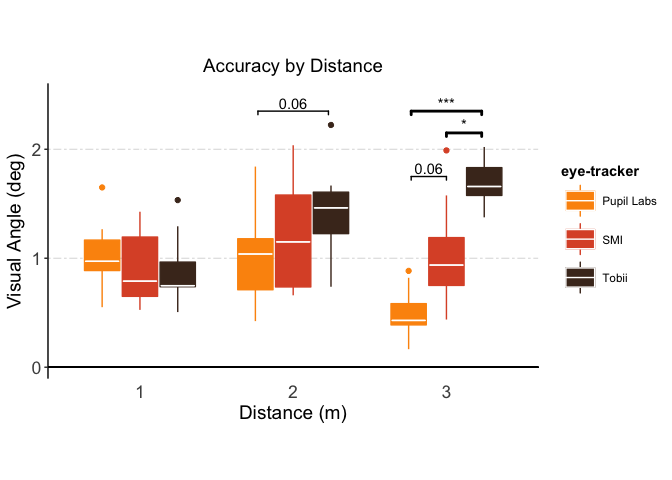
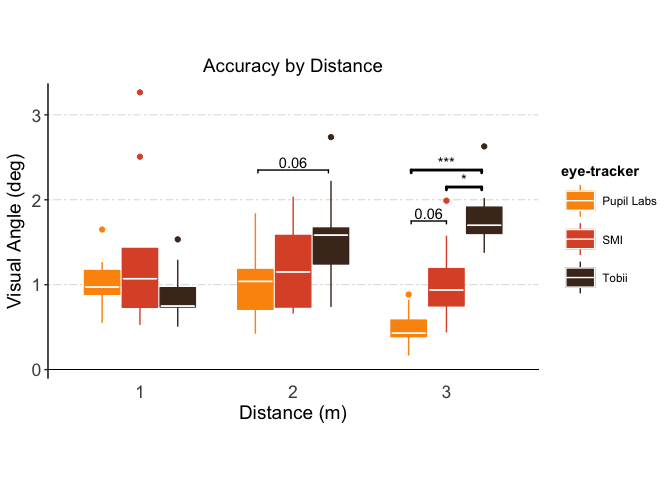
curse ggplot2 for removing data when applying axis limits

diff --git a/analysis/calibrationAnalyses.md b/analysis/calibrationAnalyses.md
@@ -1,7 +1,7 @@
 Wearable Eye-tracker Calibration Analyses
 ================
 jeff macinnes
-2017-08-04
+2017-08-06
 
 Wearable Eye-tracker Calibration Analyses
 =========================================
@@ -266,7 +266,7 @@ accPlot <- ggplot(aes(y = centDist, x = glasses, fill=glasses),
     ) +
   scale_fill_manual("eye-tracker", values=c("#FC940A", "#DD5431", "#4A3223")) +
   scale_colour_manual("eye-tracker", values=c("#FC940A", "#DD5431", "#4A3223")) +
-  scale_y_continuous(breaks=seq(0,2,by=1), limits=c(0,2.5), expand=c(0,.1)) +
+  scale_y_continuous(breaks=seq(0,3,by=1), expand=c(0,.1)) +
   theme(
     aspect.ratio = 1.5,
     panel.background = element_blank(),
@@ -282,8 +282,8 @@ accPlot <- ggplot(aes(y = centDist, x = glasses, fill=glasses),
   geom_segment(aes(x = .4, y = 0, xend = 3.6, yend = 0), size=.25) +
 
   ## significance annotations
-  geom_signif(y_position=2.15, xmin=1, xmax=2, annotation="*", tip_length=0.01, size=1) +
-  geom_signif(y_position=2.35, xmin=1, xmax=3, annotation="***", tip_length=0.01, size=1)
+  geom_signif(y_position=2.71, xmin=1, xmax=2, annotation="*", tip_length=0.01, size=1) +
+  geom_signif(y_position=2.93, xmin=1, xmax=3, annotation="***", tip_length=0.01, size=1)
 
 
 ## Precision
@@ -299,7 +299,8 @@ rmsPlot <- ggplot(aes(y = RMS, x = glasses, fill=glasses),
                fun.data = function(x){ return(c(y=median(x), ymin=median(x), ymax=median(x))) }) +
   scale_fill_manual("eye-tracker", values=c("#FC940A", "#DD5431", "#4A3223")) +
   scale_colour_manual("eye-tracker", values=c("#FC940A", "#DD5431", "#4A3223")) +
-  scale_y_continuous(breaks=seq(0,.8,by=.2), limits=c(0,.7), expand=c(0,.03)) +
+  coord_cartesian(ylim=c(0,.9)) + 
+  scale_y_continuous(breaks=seq(0, 1, by=.2), expand=c(0,.03)) +
   theme(
     aspect.ratio = 1.5,
     panel.background = element_blank(),
@@ -315,14 +316,15 @@ rmsPlot <- ggplot(aes(y = RMS, x = glasses, fill=glasses),
   geom_segment(aes(x = .4, y = 0, xend = 3.6, yend = 0), size=.25) +
   
   ## significance annotations
-  geom_signif(y_position=.58, xmin=2, xmax=3, annotation="***", tip_length=0.01, size=1) +
-  geom_signif(y_position=.64, xmin=1, xmax=3, annotation="***", tip_length=0.01, size=1)
+  geom_signif(y_position=.78, xmin=2, xmax=3, annotation="***", tip_length=0.01, size=1) +
+  geom_signif(y_position=.84, xmin=1, xmax=3, annotation="***", tip_length=0.01, size=1)
 
 ## Combine plots
 ggarrange(accPlot, rmsPlot,  
           labels = c("A", "B"),
           ncol = 2, nrow = 1) + 
-  ggsave("../exposition/figs/overallAccPrec.pdf", width = 8, height = 5)
+  ggsave("../exposition/figs/overallAccPrec.pdf", width = 8, height = 5) + 
+  ggsave("../exposition/figs/overallAccPrec.png", width = 8, height = 5)
 ```
 
 ![](calibrationAnalyses_files/figure-markdown_github-ascii_identifiers/chunk7-1.png)
@@ -526,7 +528,7 @@ ACC_glassesXdist <- ggplot(aes(y = centDist, x = dist, fill=glasses),
     ) +
   scale_fill_manual("eye-tracker", values=c("#FC940A", "#DD5431", "#4A3223")) +
   scale_colour_manual("eye-tracker", values=c("#FC940A", "#DD5431", "#4A3223")) + 
-  scale_y_continuous(breaks=seq(0,2,by=1), limits=c(0,2.5), expand=c(0,.1)) +
+  scale_y_continuous(breaks=seq(0,3,by=1), expand=c(0,.1)) +
   scale_x_discrete(breaks = c("1M", "2M", "3M"), labels=c("1", "2", "3")) +
   theme(
     aspect.ratio = .6,
@@ -551,7 +553,8 @@ ACC_glassesXdist <- ggplot(aes(y = centDist, x = dist, fill=glasses),
   geom_signif(y_position=2.35, xmin=1.77, xmax=2.23, annotation="0.06", tip_length=0.01) +
   
   ## save
-  ggsave("../exposition/figs/ACC_glasses_by_dist.pdf", width = 8, height = 5)
+  ggsave("../exposition/figs/ACC_glasses_by_dist.pdf", width = 8, height = 5) + 
+  ggsave("../exposition/figs/ACC_glasses_by_dist.png", width = 8, height = 5)
 
 # show plot
 ACC_glassesXdist
@@ -744,7 +747,7 @@ PREC_glassesXoffset <- ggplot(aes(y = RMS, x = offset, fill=glasses),
   scale_fill_manual("eye-tracker", values=c("#FC940A", "#DD5431", "#4A3223")) +
   scale_colour_manual("eye-tracker", values=c("#FC940A", "#DD5431", "#4A3223")) +
   scale_x_discrete(breaks = c("10Ldeg", "0deg", "10Rdeg"), labels=c("-10°", "0°", "+10°")) +
-  scale_y_continuous(breaks=seq(0,.8,by=.2), limits=c(0,.7), expand=c(0,.03)) +
+  scale_y_continuous(breaks=seq(0,.8,by=.2), expand=c(0,.03)) +
   theme(
     aspect.ratio = .6,
     panel.background = element_blank(),
@@ -763,13 +766,14 @@ PREC_glassesXoffset <- ggplot(aes(y = RMS, x = offset, fill=glasses),
   
   ## significance annotation
   geom_signif(y_position=.61, xmin=.77, xmax=1.23, annotation="**", tip_length=0.01, size=1) +
-  geom_signif(y_position=.48, xmin=2, xmax=2.23, annotation="*", tip_length=0.01, size=1) +
-  geom_signif(y_position=.53, xmin=1.77, xmax=2.23, annotation="0.05", tip_length=0.01) +
-  geom_signif(y_position=.56, xmin=3, xmax=3.23, annotation="***", tip_length=0.01, size=1) +
-  geom_signif(y_position=.61, xmin=2.77, xmax=3.23, annotation="***", tip_length=0.01, size=1) +
+  geom_signif(y_position=.46, xmin=2, xmax=2.23, annotation="*", tip_length=0.01, size=1) +
+  geom_signif(y_position=.51, xmin=1.77, xmax=2.23, annotation="0.05", tip_length=0.01) +
+  geom_signif(y_position=.58, xmin=3, xmax=3.23, annotation="***", tip_length=0.01, size=1) +
+  geom_signif(y_position=.63, xmin=2.77, xmax=3.23, annotation="***", tip_length=0.01, size=1) +
   
   ## save
-  ggsave("../exposition/figs/PREC_glasses_by_offset.pdf", width = 8, height = 5)
+  ggsave("../exposition/figs/PREC_glasses_by_offset.pdf", width = 8, height = 5) +
+  ggsave("../exposition/figs/PREC_glasses_by_offset.png", width = 8, height = 5)
 
 # show plot
 PREC_glassesXoffset
